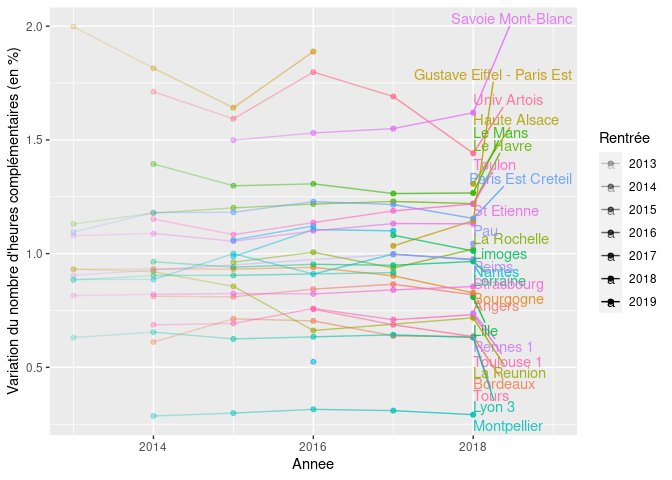
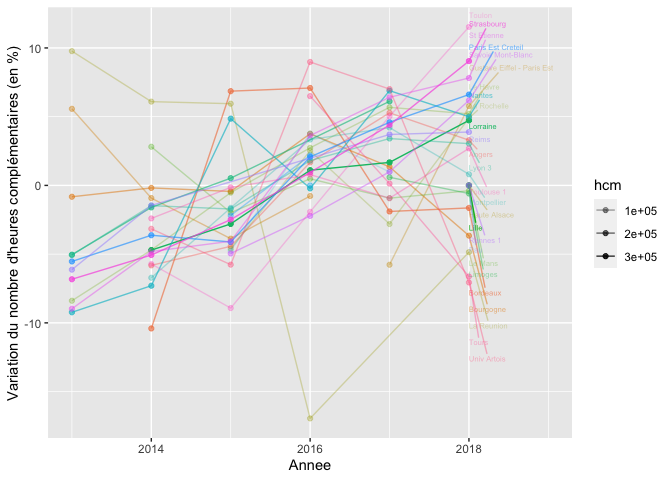
Modification du second graphique

diff --git a/Vacations/Vacations.md b/Vacations/Vacations.md
@@ -10,13 +10,13 @@ titulaires, en gardant les data à partir de 2014.
 
 ![](Vacations_files/figure-gfm/hcompPtit-1.png)<!-- -->
 
-On continue en regardant l’évolution entre 2014 et 2018 du nombre
-d’HComp par étudiant pour tous les établissements, par rapport à la
-moyenne.
+On continue en regardant la variation (en %) du nombre d’HComp par tous
+les établissements. Cette variation est obtenue, pour chaque
+établissement, en regardant l’écart à la moyenne sur la période
+2014-2018. La transparence représente cette valeur moyenne (moins c’est
+transparent, plus le nombre d’heures moyen est élevé)
 
-    ## Warning: Removed 7 rows containing missing values (geom_point).
-
-    ## Warning: Removed 7 row(s) containing missing values (geom_path).
+    ## `summarise()` regrouping output by 'Etablissement' (override with `.groups` argument)
 
 ![](Vacations_files/figure-gfm/evol.hcomp-1.png)<!-- -->
 
